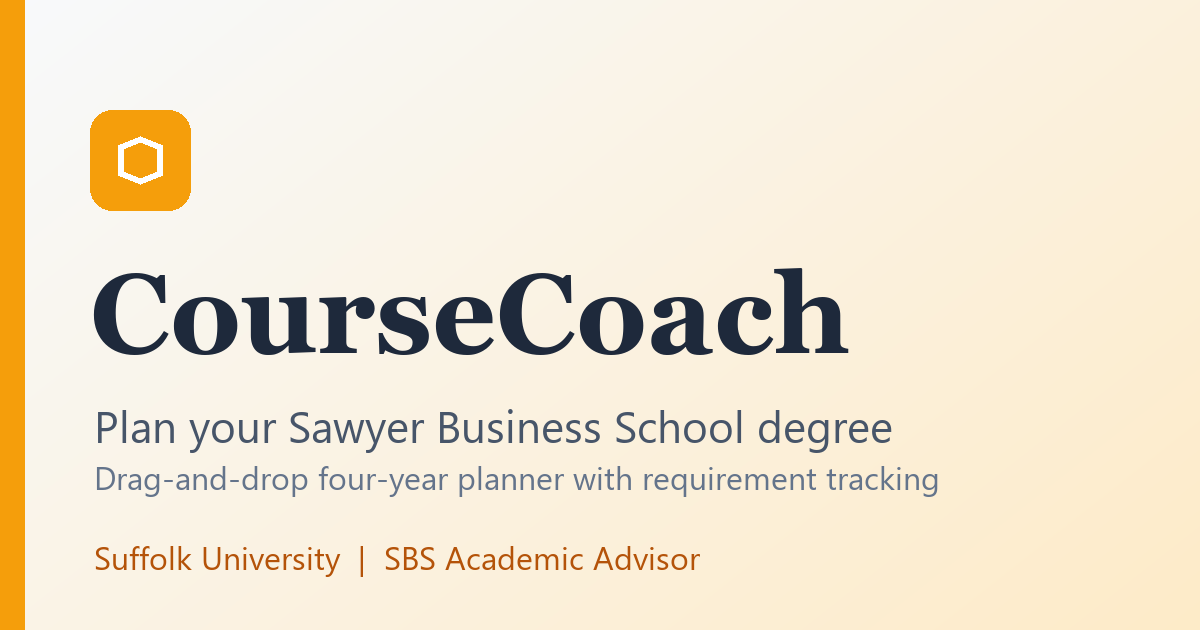
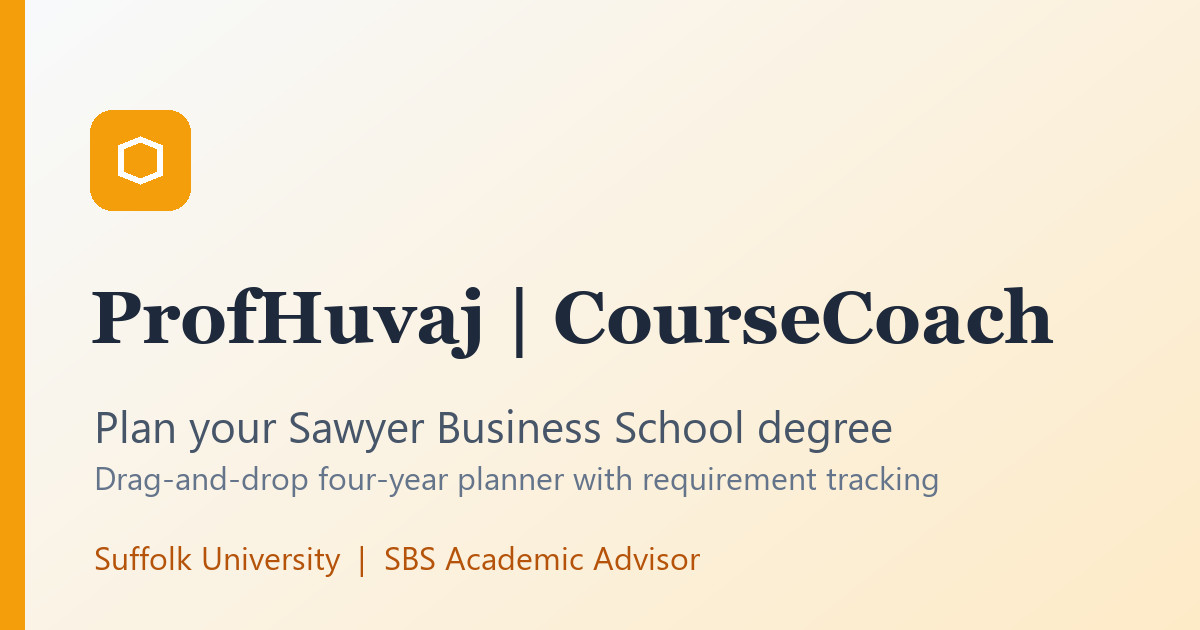
Set page title and link preview to 'ProfHuvaj | CourseCoach'

Changed region(s): [[0.0617, 0.4222, 0.8942, 0.573]]

diff --git a/index.html b/index.html
@@ -3,15 +3,15 @@
 <head>
   <meta charset="UTF-8">
   <meta name="viewport" content="width=device-width, initial-scale=1.0">
-  <title>CourseCoach | SBS Academic Advisor, Suffolk University</title>
+  <title>ProfHuvaj | CourseCoach</title>
   <meta name="description" content="Plan your Sawyer Business School degree: drag and drop courses into a four-year plan, track requirements, and explore majors and minors.">
   <meta name="theme-color" content="#f59e0b">
   <link rel="icon" type="image/svg+xml" href="/CourseCoach/favicon.svg">
 
   <!-- Link previews (email, Teams, Slack, text messages, social) -->
   <meta property="og:type" content="website">
-  <meta property="og:site_name" content="CourseCoach">
-  <meta property="og:title" content="CourseCoach | SBS Academic Advisor">
+  <meta property="og:site_name" content="ProfHuvaj | CourseCoach">
+  <meta property="og:title" content="ProfHuvaj | CourseCoach">
   <meta property="og:description" content="Plan your Sawyer Business School degree: drag and drop courses into a four-year plan and track your requirements.">
   <meta property="og:url" content="https://profhuvaj.github.io/CourseCoach/">
   <meta property="og:image" content="https://profhuvaj.github.io/CourseCoach/og-image.png">
